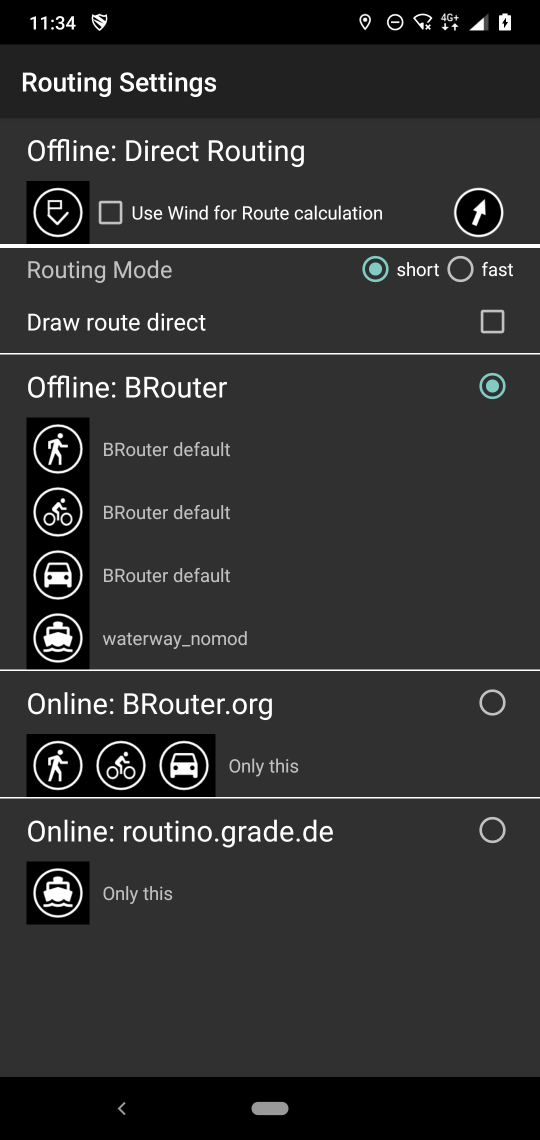
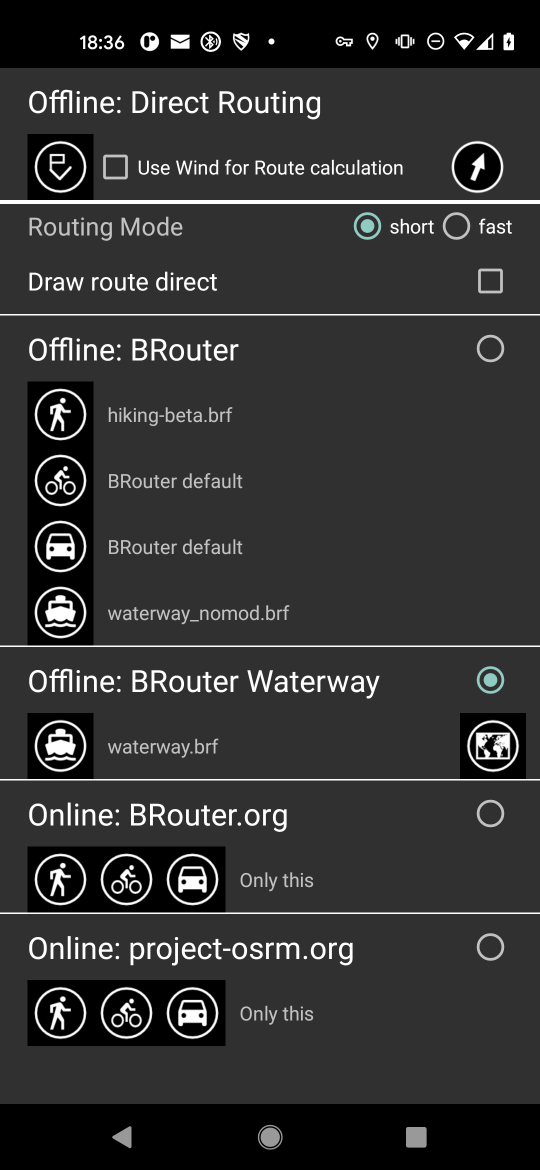
AFTrack new routing settings for internal BRouter modul

diff --git a/README.md b/README.md
@@ -12,6 +12,8 @@ With AFTrack since Oct 2020 comes a new BRouter handling. No direct interaction 
 After installation the file 'waterway_nomod.brf' is copied to the AFTrack folder.
 This works with the standard lookups.dat tag table and comes with small waterway routing. 
 
+With AFTrack version 1.12.0 (Jan 2021) comes an internal BRouter version that only works for waterways. It can download BRouter data files for US and Europe. These are very small and only contains the water routing data.
+
 To use all this inside AFTrack, do a long press on the map and select the ruler. It offers you two point to define start and end of a route. You can add points at the active point when you touch the second ring. Then select the routing mode and press the search button.  
 
 ![Routing result](AFTrack_brouter.png)
